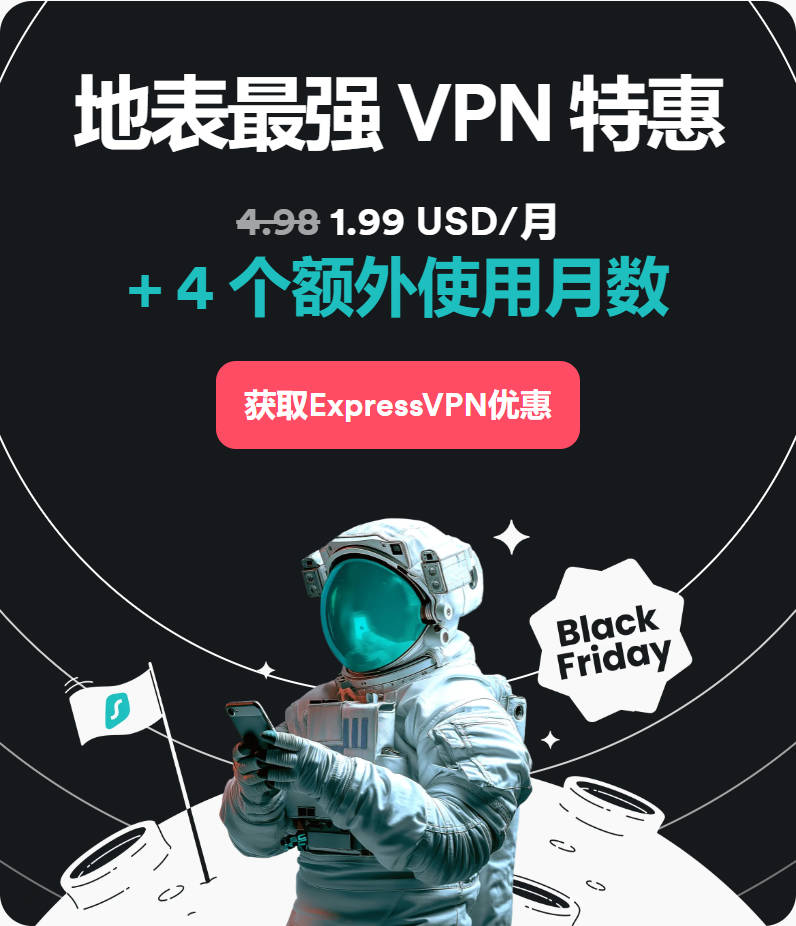
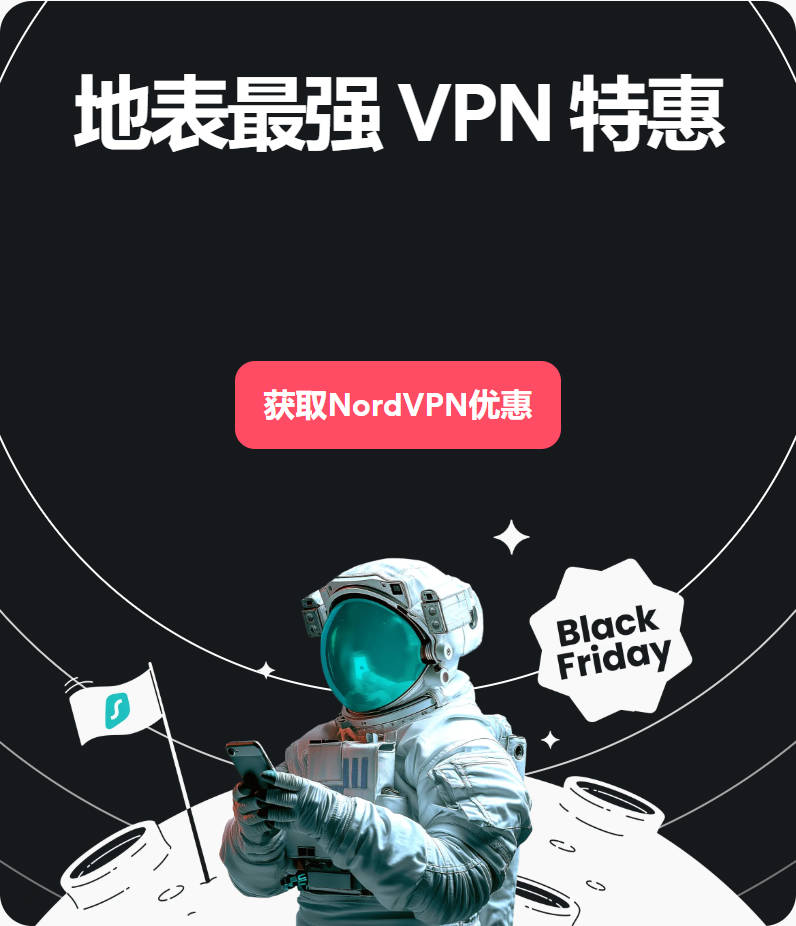
update

diff --git a/_includes/sidebar.html b/_includes/sidebar.html
@@ -1,6 +1,6 @@
 <div class="sidebar sticky-top">
     <div class="sidebar-section">
         <h5><span>最佳VPN推荐</span></h5>
-        <a href="https://overwallvpn.com/go/expressvpn"><img src="{{site.baseurl}}/assets/images/top-vpn-banner.jpg"></a>
+        <a href="https://overwallvpn.com/go/nordvpn"><img src="{{site.baseurl}}/assets/images/top-vpn-banner.jpg"></a>
     </div>
 </div>
